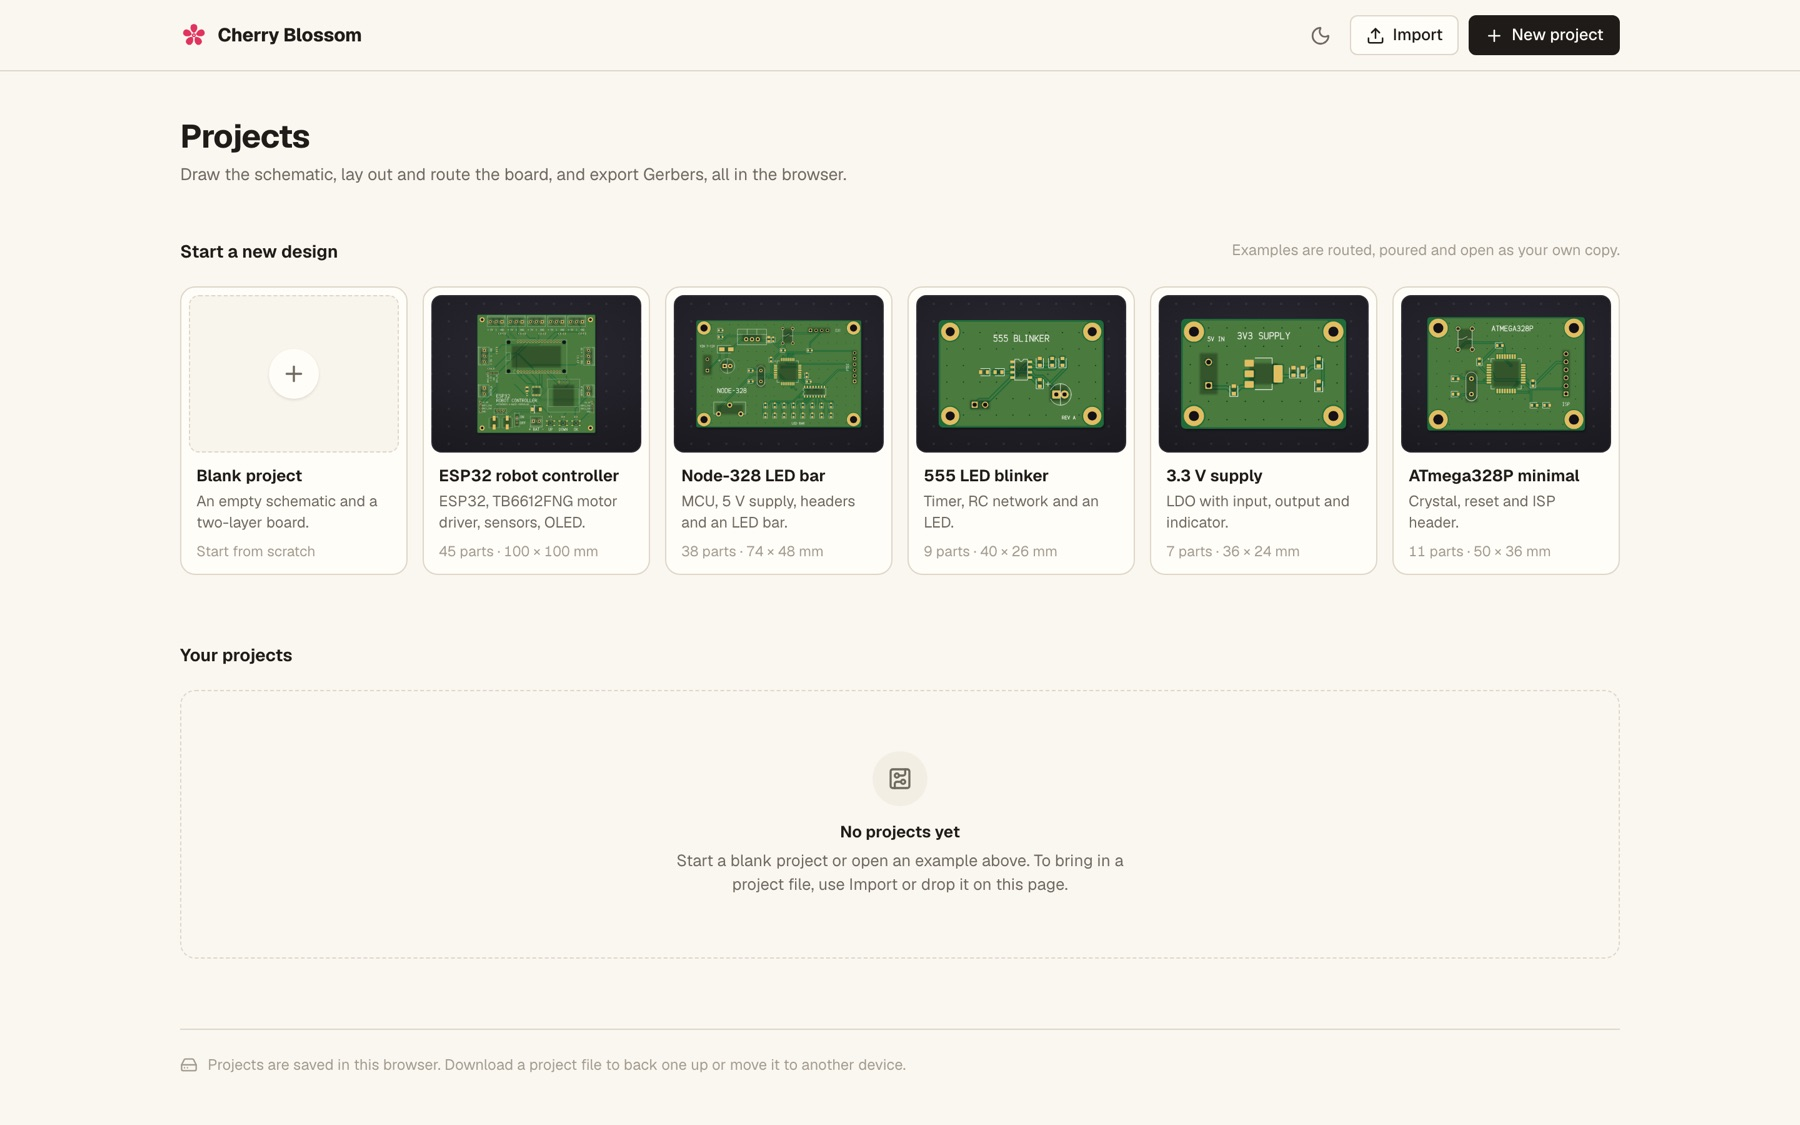
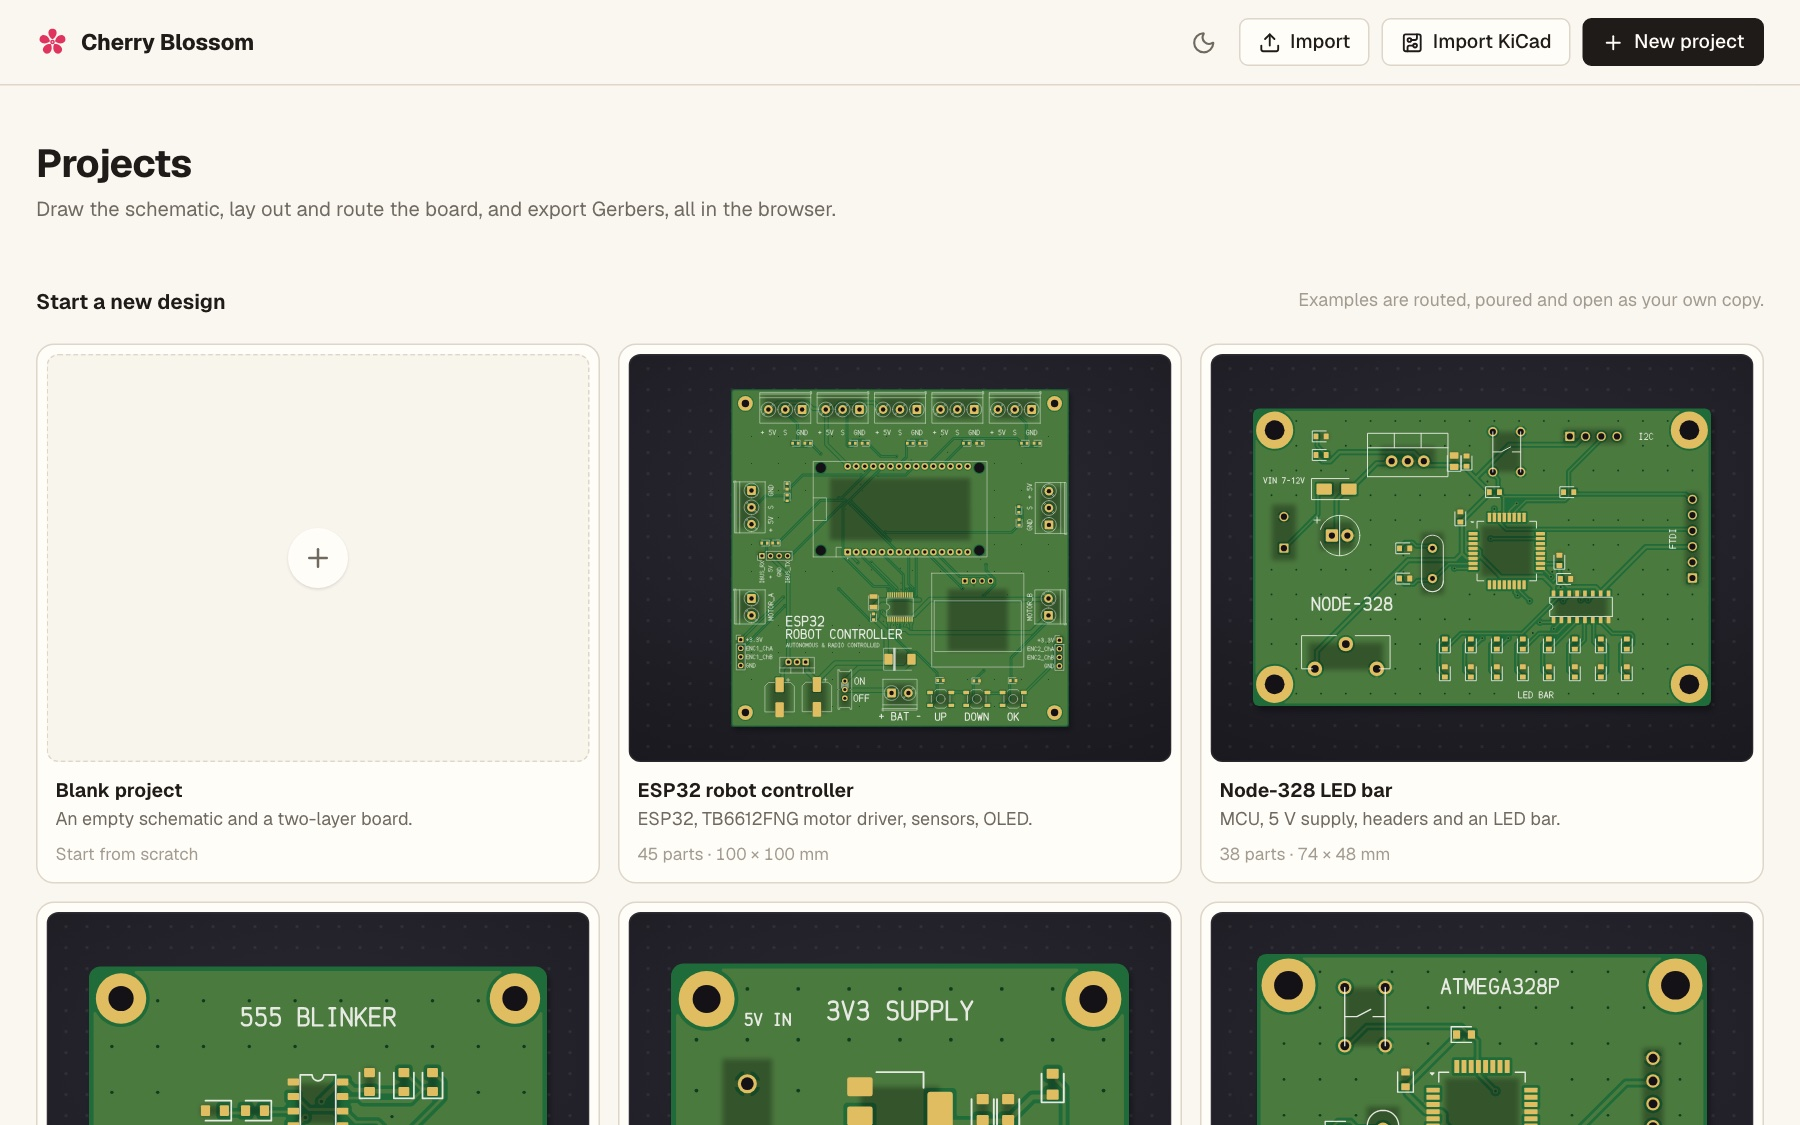
Bring the README up to the editor: KiCad import, layers, sheets, live editing, real 3D models only, and new screenshots

diff --git a/README.md b/README.md
@@ -17,7 +17,7 @@
   <img alt="TypeScript, strict" src="https://img.shields.io/badge/TypeScript-strict-3178c6?style=flat-square&logo=typescript&logoColor=white">
   <img alt="React 19" src="https://img.shields.io/badge/React-19-61dafb?style=flat-square&logo=react&logoColor=black">
   <img alt="Vite 7" src="https://img.shields.io/badge/Vite-7-646cff?style=flat-square&logo=vite&logoColor=white">
-  <img alt="2,200+ tests" src="https://img.shields.io/badge/tests-2%2C200%2B-2f8a57?style=flat-square">
+  <img alt="5,000+ tests" src="https://img.shields.io/badge/tests-5%2C000%2B-2f8a57?style=flat-square">
   <img alt="Status: early" src="https://img.shields.io/badge/status-early-d69e2e?style=flat-square">
 </p>
 
@@ -30,14 +30,15 @@
 <br>
 
 <p align="center">
-  <img src="docs/images/hero.jpg" alt="The Cherry Blossom editor showing an ESP32 robot controller in 3D: an ESP32 DevKit, a motor driver, an OLED module, screw terminals and tact switches on a green board, with the parts library on the left and the Checks panel on the right" width="100%">
+  <img src="docs/images/hero.jpg" alt="The Cherry Blossom editor showing the ESP32 robot controller's PCB: screw terminals, the DevKit's headers, a motor driver and tact switches on a 100 mm board, routed on both layers under a top-side pour, with Sakura on the left and the Inspector on the right" width="100%">
   <br>
-  <sub>The ESP32 robot controller example in the 3D view: 45 parts, routed and poured, with one decoupling warning in Checks.</sub>
+  <sub>The ESP32 robot controller example on the PCB: 45 parts, 112 of 112 connections routed, poured, with one decoupling warning.</sub>
 </p>
 
 > [!NOTE]
 > **This is the editor behind [trycherryblossom.com](https://www.trycherryblossom.com).**
-> The hosted app adds accounts, projects in the cloud, supplier part data and
+> The hosted app adds accounts, projects in the cloud that you share and edit
+> together, version history, supplier part data, KiCad's 3D models and
 > **Sakura**, an AI copilot that builds circuits from a sentence. Everything in
 > this repository — the whole editor, by hand — runs locally with no backend.
 
@@ -61,15 +62,15 @@
     </td>
     <td width="25%" valign="top">
       <h3>⚡ Routed in seconds</h3>
-      Automatic placement that knows a regulator's power stage, a two-layer autorouter with per-net widths and fine-pitch escapes, and copper pours with thermals and stitching vias.
+      Automatic placement that knows a regulator's power stage, an autorouter with net classes, per-net widths and fine-pitch escapes, and copper pours and zones with thermals and stitching vias.
     </td>
     <td width="25%" valign="top">
       <h3>✅ Checked before you order</h3>
       Clearance, shorts, unrouted nets, courtyards, annular rings and the rest of the design rules, plus electrical checks that catch an LED with no resistor.
     </td>
     <td width="25%" valign="top">
-      <h3>📦 Ready for the fab</h3>
-      Gerbers, Excellon drill, BOM and pick-and-place in one zip, with fabrication notes. Or take the board elsewhere: KiCad, Circuit JSON and STEP.
+      <h3>📦 KiCad in, fab files out</h3>
+      Import a KiCad project, board or schematic. Export Gerbers, Excellon drill, BOM and pick-and-place in one zip, with fabrication notes, or take the board elsewhere: KiCad, Circuit JSON and STEP.
     </td>
   </tr>
 </table>
@@ -98,18 +99,18 @@ Every screenshot here is the editor as it runs from this repository, on its ship
       <h3>Layout that does the tedious part</h3>
       Auto-placement puts each decoupling capacitor beside the pin it serves, and a regulator's capacitors, inductor and feedback divider at its pins. The autorouter runs A* on two layers with vias, net-aware clearances and per-net trace widths, and keeps the copper you routed by hand.
       <br><br>
-      Interactive routing with 45° bends and vias, bottom-side parts, mounting holes, silkscreen text and board-wide pours with thermal spokes and stitching vias.
+      Interactive routing with 45° bends, arcs and vias, up to 32 copper layers with blind and buried vias, bottom-side parts, any board outline, mounting holes, text in KiCad's own font, dimensions, and pours and zones with thermal spokes and stitching vias.
     </td>
   </tr>
   <tr>
     <td width="50%" valign="top">
-      <img src="docs/images/3d.jpg" alt="The Node-328 LED bar in 3D: a TO-220 regulator, a crystal, an electrolytic capacitor, a trimmer, headers and LEDs on a green board with gold pads, over a dark grid with millimetre marks" width="100%">
+      <img src="docs/images/3d.jpg" alt="The Node-328 LED bar in 3D: a green board with gold pads, plated holes, silkscreen and mounting holes, over a dark grid with millimetre marks, and a notice that its 13 parts' models couldn't be drawn here, so they show their pads" width="100%">
       <br>
-      <sub>Every library package has a model, so the 3D view is there the moment it opens.</sub>
+      <sub>Here a part shows its pads until it has a model; the hosted app draws KiCad's.</sub>
       <h3>See it before it's made</h3>
-      Procedural models for every library package, from chip resistors with value codes to ESP32 DevKits on their headers, on a board with glossy mask, plated holes and your choice of finish, mask and silkscreen colour.
+      The board in 3D with glossy mask, plated holes, tented or open vias and your choice of finish, mask and silkscreen colour. Parts are drawn only with real models, never made-up bodies.
       <br><br>
-      Drop in a real model (STEP, OBJ, WRL, STL or GLB) for any part. STEP files are read by OpenCascade in a Web Worker, so nothing leaves your machine.
+      Drop in a model (STEP, OBJ, WRL, STL or GLB) for any part. STEP files are read by OpenCascade in a Web Worker, so nothing leaves your machine. The hosted app also draws KiCad's 3D library and the supplier's models.
     </td>
     <td width="50%" valign="top">
       <img src="docs/images/checks.jpg" alt="The ESP32 robot controller's PCB with the Checks panel open, showing one warning: C4 is 7.1 mm from U2 pin 24 (VM1); aim for under 3 mm" width="100%">
@@ -128,13 +129,17 @@ Every screenshot here is the editor as it runs from this repository, on its ship
       <sub>Everything a fab, an assembler or another tool needs, from one menu.</sub>
       <h3>Take it anywhere</h3>
       RS-274X Gerbers with pours, mask and paste, Excellon drill with slots, a BOM, pick-and-place and fabrication notes, zipped. A KiCad 9 project with the rules and net classes carried over, Circuit JSON for tscircuit, and the whole board as a STEP assembly for mechanical CAD.
+      <br><br>
+      <b>KiCad in, too.</b> A KiCad project, board or schematic imports with its sheets, buses, zones, net classes and rules (KiCad 6 and later, and the schematics of KiCad 4 and 5). What the editor can't hold yet is named in a report, never dropped quietly, and the original files are kept with the project.
     </td>
     <td width="50%" valign="top">
-      <img src="docs/images/dashboard.jpg" alt="The projects dashboard: a blank project and five example boards drawn as previews, ESP32 robot controller, Node-328 LED bar, 555 LED blinker, 3.3 V supply and ATmega328P minimal" width="100%">
+      <img src="docs/images/dashboard.jpg" alt="The projects dashboard: Import, Import KiCad and New project buttons, a blank project and five example boards drawn as previews, ESP32 robot controller, Node-328 LED bar, 555 LED blinker, 3.3 V supply and ATmega328P minimal" width="100%">
       <br>
       <sub>Five routed examples to start from, each opening as your own copy.</sub>
       <h3>Yours, in your browser</h3>
       Projects save as you work, in your browser, and download as a single versioned file you can open anywhere. Older files are migrated when they open, and a file from a newer version is refused rather than damaged.
+      <br><br>
+      Open a project in two tabs and each sees the other's edits, cursor and selection, and undo takes back only your own: the same live editing the hosted app runs between people.
       <br><br>
       Light and dark themes, shortcuts for every tool, and undo for every change.
     </td>
@@ -148,16 +153,16 @@ Every screenshot here is the editor as it runs from this repository, on its ship
 <table>
   <tr>
     <td width="33%" valign="top">
-      <h4>🧰 93 built-in parts</h4>
-      Resistors, capacitors (ceramic, electrolytic, tantalum), inductors, trimmers, crystals, diodes, LEDs, BJTs and MOSFETs · NE555, LM358, ATmega328P, ATtiny85, 74HC595, CH340, ULN2003A, PC817, TB6612FNG, LM7805, AMS1117, AP2112K, WS2812B · Arduino Nano, Raspberry Pi Pico, ESP32 modules and DevKits, Wemos D1 Mini, XIAO ESP32-C3, an I2C OLED · headers, IC sockets, screw and pluggable terminals, JST PH/XH, Qwiic, USB-C, micro-USB, barrel jack, microSD · switches, a relay, a buzzer.
+      <h4>🧰 Parts</h4>
+      Basic parts built in: resistors, capacitors (ceramic, electrolytic, tantalum), inductors, potentiometers, crystals, diodes, LEDs, BJTs and MOSFETs, power and ground ports, a battery and coin-cell holder, switches, a relay and a buzzer.
       <br><br>
-      Search understands values and packages: <code>10k 0603</code> places a 10k 0603 resistor.
+      Everything else is a part of the project: imported from a KiCad symbol, footprint and 3D model, or drawn in the part editor. Search understands values and packages: <code>10k 0603</code> places a 10k 0603 resistor.
     </td>
     <td width="33%" valign="top">
       <h4>✏ Schematic</h4>
-      Wires · net labels · power and ground ports · junctions · no-connect flags · blocks · text, lines, arrows, polygons and rectangles for titles and notes · copy, paste and duplicate · Tidy · Clean up · rotate, flip and drag with nets kept intact.
+      Wires · net labels · power and ground ports · junctions · no-connect flags · blocks · hierarchical sheets · buses · variants · text, lines, arrows, polygons and rectangles for titles and notes · copy, paste and duplicate · Tidy · Clean up · rotate, flip and drag with nets kept intact.
       <h4>🟥 PCB</h4>
-      Auto-place · re-pack · autoroute · interactive routing · vias · per-net widths · copper pours · thermal spokes · stitching vias · locked parts and copper · board outline, corner radius, mounting holes · stackup, copper weight, finish, mask and silkscreen colours · design rules in mm or mil.
+      Auto-place · re-pack · autoroute · interactive routing · arcs · vias · up to 32 copper layers · net classes · per-net widths · copper pours and zones · keepouts · thermal spokes · stitching vias · locked parts and copper · any board outline, cutouts, mounting holes · dimensions · reference images · stackup, copper weight, finish, mask and silkscreen colours · design rules in mm or mil.
     </td>
     <td width="33%" valign="top">
       <h4>📤 Exports</h4>
@@ -185,6 +190,10 @@ browser; the models and the supplier data they call are the hosted app's. A loca
 build has no session, so its Sakura panel offers to sign in at the hosted app
 instead of calling anything.
 
+The hosted app also gives an AI assistant you already use (Claude, ChatGPT,
+Cursor, Claude Code or any MCP client) Sakura's tools on your projects, through
+its MCP server. That server is part of the hosted app, not this repository.
+
 ## Under the hood
 
 - **Its own document model.** A typed ECAD project edited by pure functions, with
@@ -198,10 +207,14 @@ instead of calling anything.
   only when you ask for them.
 - **A real file format.** Versioned, migrated on read, and tolerant of fields it
   doesn't know, which survive a save.
-- **Tested hard.** More than 2,200 unit tests, including fuzzers that throw random
-  edits at random sheets, round trips through Circuit JSON, and STEP and KiCad
-  exports read back and checked; plus a Playwright suite that
-  drives the editor in a real browser.
+- **Edits travel as changes.** Every edit is written as a list of changes to the
+  project's items (`host/project-changes.ts`), applied the same way by every open
+  copy, so two people, or two tabs, edit one project without overwriting each other.
+- **Tested hard.** More than 5,000 unit tests, including fuzzers that throw random
+  edits at random sheets, round trips through Circuit JSON and KiCad, STEP and
+  KiCad exports read back and checked, and corpus tests that import some 1,500
+  open-source KiCad boards when you point them at a copy (`npm run test:corpus`);
+  plus a Playwright suite that drives the editor in a real browser.
 
 ## Get started
 
@@ -230,10 +243,10 @@ architecture, the file format, how Tidy and the router work, and the sharp edges
 
 > [!IMPORTANT]
 > **Early stage.** The schematic and PCB editors work end to end and the examples
-> go all the way to Gerbers, but expect rough edges and breaking changes. Boards
-> are two layers for now; multi-layer boards, hierarchical sheets, simulation and
-> real-time collaboration are not here yet. Please file issues with the steps,
-> your browser, and a project file if you can share one.
+> go all the way to Gerbers, but expect rough edges and breaking changes. The
+> autorouter routes a board's two outer layers and leaves its inner ones to you,
+> and there is no simulation yet. Please file issues with the steps, your browser,
+> and a project file if you can share one.
 
 ## Contributing
 
